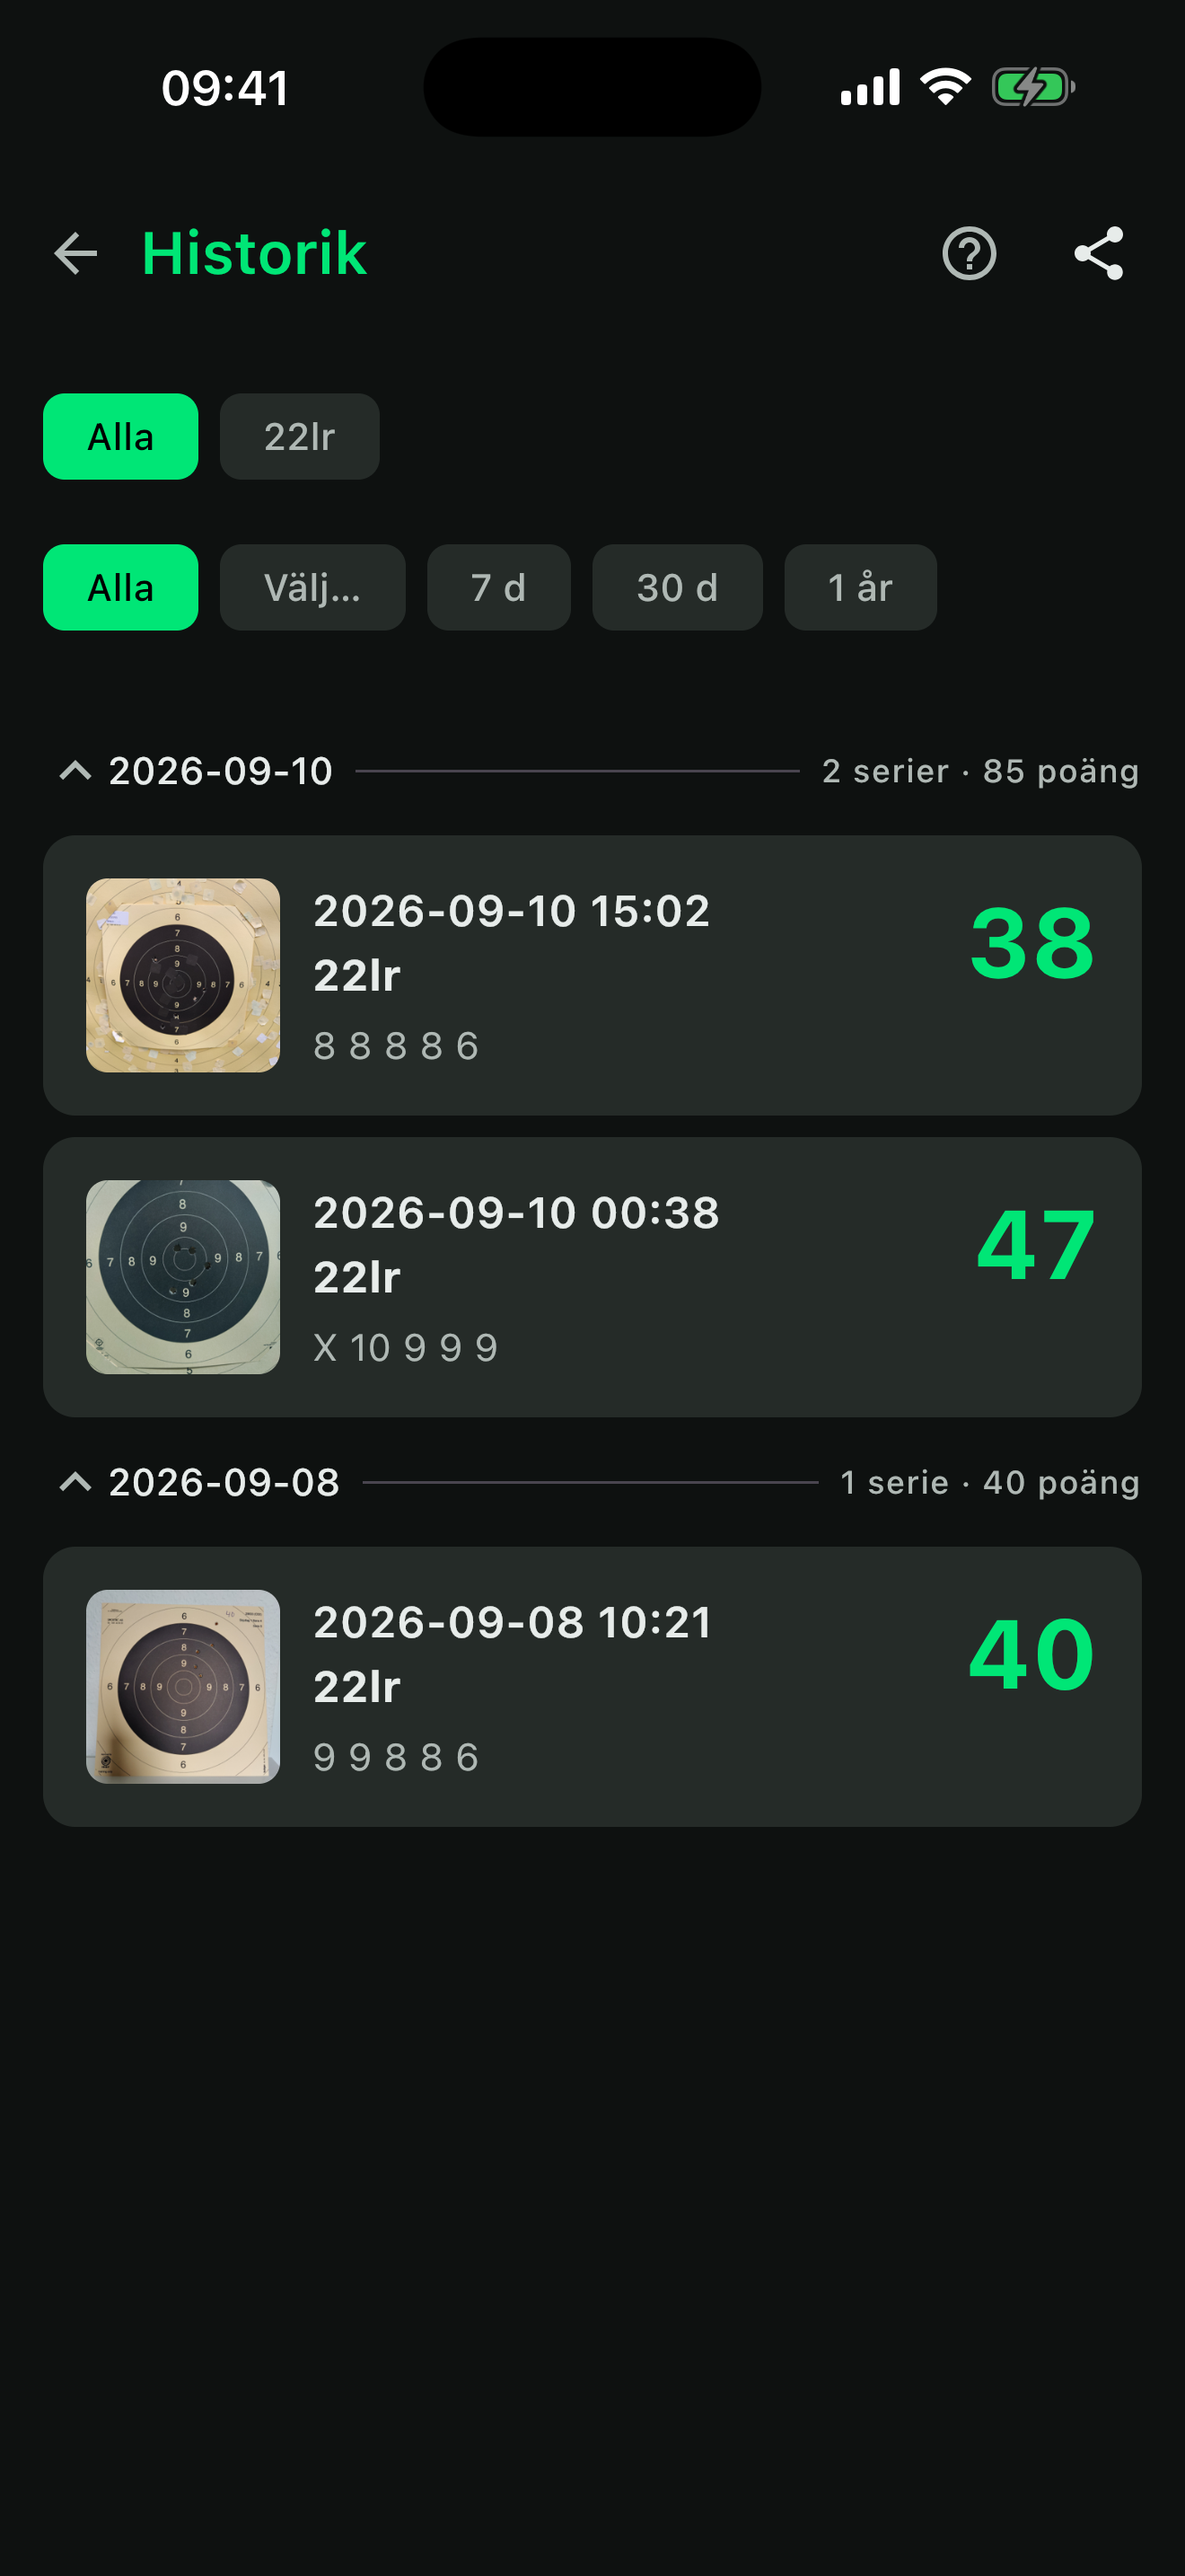
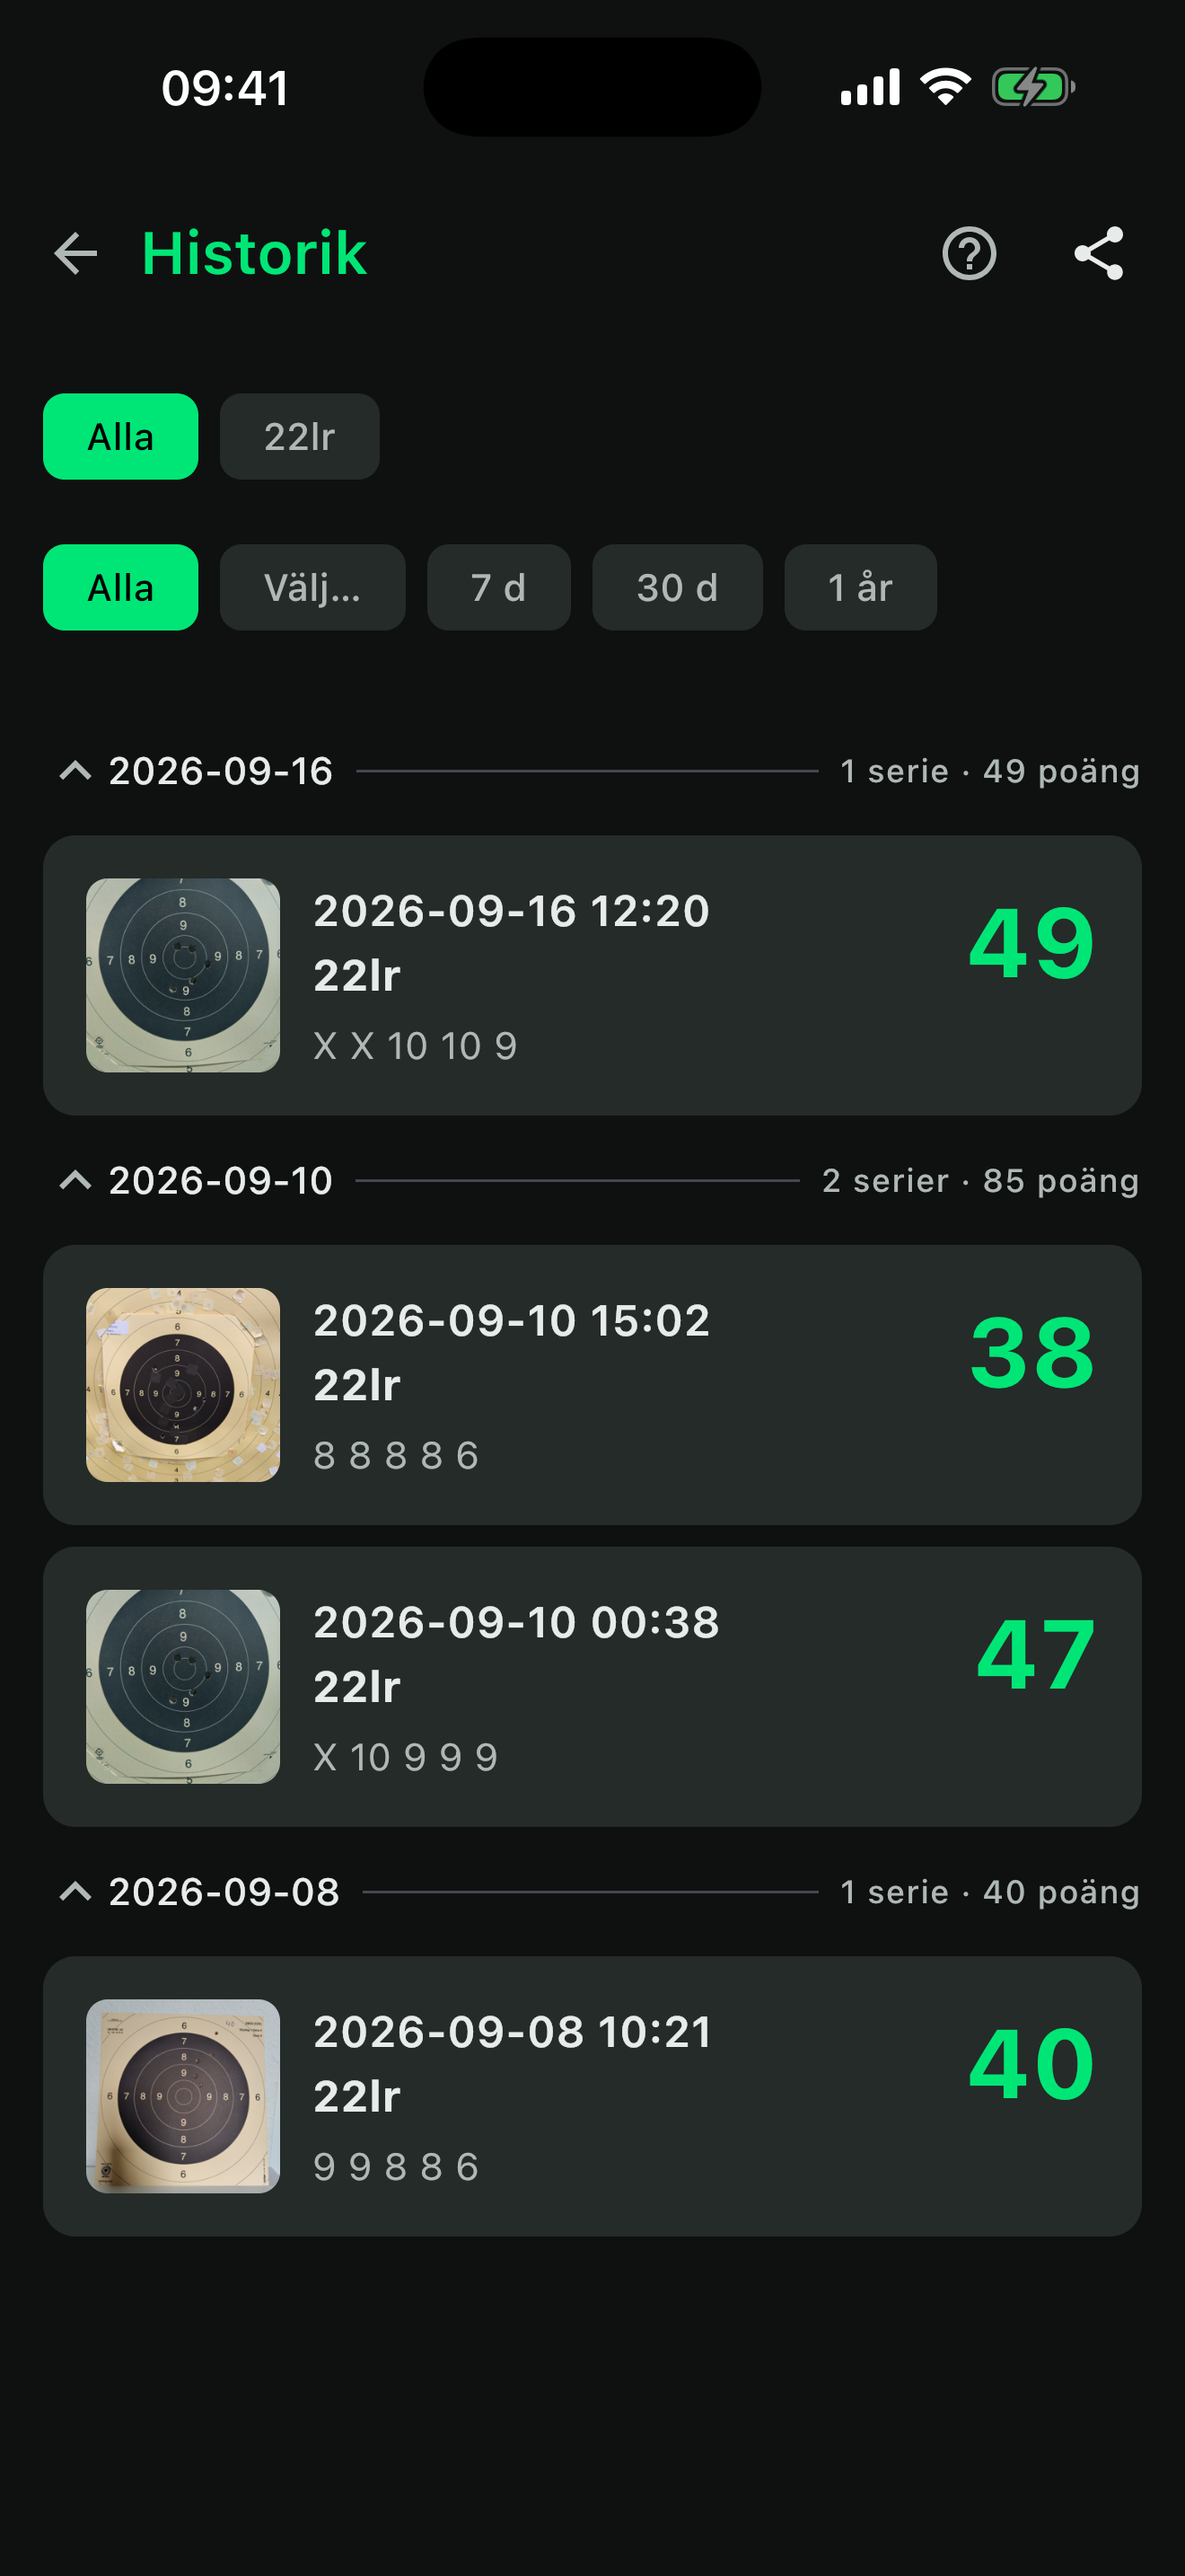
App Store: retake 04-historik.png with the new series
The shot listed only the pre-task-88 dev series. It now shows three day
groups, all expanded, with today's freshly scanned 49 p series on top --
which also demonstrates the day grouping better than the old two-day set.

Claude-Session: https://claude.ai/code/session_01T2fnEK7bqfhXzvSH96ng2L

diff --git a/PLAN.md b/PLAN.md
@@ -217,7 +217,7 @@ Calibers: `22lr, 32, 38, 357, 45, 44, 9mm, 10mm` plus `-` (none, default).
 | 95 | Historik day header: "1 serier" should read "1 serie" (seen on the phone 2026-09-16) | done 2026-09-16 — gate green, iOS links, phone-checked 2026-09-16 (two one-series days read "1 serie") |
 | 96 | Help text: the Radera item on the series detail screen still said the bin "tar bort hela serien från ditt konto", which stopped being true with task 90 — it now says the series leaves the app while the server keeps it, its holes and its photo until the account is deleted (user 2026-09-16) | done 2026-09-16 — gate 190 green, iOS links, phone-checked 2026-09-16 (help sheet on a series) |
 | 97 | Release 1.7.0 (10) (`/release` 2026-09-16) — notes written against **1.5.0**, the last public release (1.6.0 (9) reached the internal track but was never promoted), so they cover the new ring detection, typed scores, the 6/7 viewfinder labels, Historik day grouping, the Statistik tabs/filters, the icon and the five-hole cap; iOS marketing version + TestFlight notes bumped alongside; the four Play phone screenshots retaken on 34282ee3, and both tablet sets regenerated from them the way the repo has always built them (the phone shot pasted unscaled on an app-background canvas: 7" 1620x2880 at x=90, 10" 2160x3840 at 360,480) — no tablet and no emulator needed; the four App Store screenshots retaken the same day on the iPhone 17 Pro Max simulator (1320x2868, `idb ui tap` in points + `simctl io screenshot`, Debug build against the dev backend) and flattened to RGB, since App Store Connect rejects PNGs with an alpha channel | done 2026-09-16 — AAB built and signed (139 MB), commit 832b729, tag v1.7.0 pushed; the user ran both Play tasks (the classifier denies my uploads): build 10 is in track 'internal' and the four new phone screenshots are live on the sv-SE listing. The user ran `publishReleaseListing` again 2026-09-16, so both tablet sets (7" and 10") are live on the listing too. The App Store side went out the same day: iOS 1.7.0 is on TestFlight as **build 11** (`project.yml` said 10, but ASC had already consumed 10, so the beta lane bumped past it — project.yml now says 11), and `fastlane metadata` pushed the four screenshots + Swedish notes and attached build 11 to version 1.7.0. That push first died with `invalid byte sequence in US-ASCII`: `scripts/mac.sh` sets no locale, so Ruby came up US-ASCII and deliver choked on the Swedish text — hence the new `scripts/mac-metadata.sh`, which exports `LANG`/`LC_ALL` the way `mac-beta.sh` already did. Only the App Privacy questionnaire (ASC UI, no public API) now stands between this and `fastlane release`. Promotion to production is still a manual step in Play Console |
-| 98 | App Store `02-serie.png` showed the green 6/7 ring badly misplaced (user spotted it in the live store listing 2026-09-16) | done 2026-09-16 — **not a code bug**: `GeometryDto` is persisted per series (`series/SeriesDtos.kt:89`) and `SeriesDetailScreen:232` draws `series.geometry?.ring()` without ever recomputing, so a screenshot of a 2026-09-10 dev series still showed the pre-task-88 `refine67ToEdge` fit. Measured the old shot from the red centre outward: the ring sat ~106 px (≈20% of radius) inside the black edge on three of four axes, tracking a printed ring line between the 7 and 8 digits. Rescanned the same target on the simulator (Debug 1.7.0 = probe-disk fit) → 49 p (X X 10 10 9); the new ring measures **+2.7 px mean, 18 px worst (3.3% of a 537 px radius)** against the true 6/7 edge over 29 rays. `02-serie.png` replaced (flattened to RGB) and pushed to ASC with the new `scripts/mac-metadata.sh`; build 11 re-attached to 1.7.0. The other three shots were unaffected. Lesson: a store screenshot must come from a series scanned on the current build |
+| 98 | App Store `02-serie.png` showed the green 6/7 ring badly misplaced (user spotted it in the live store listing 2026-09-16) | done 2026-09-16 — **not a code bug**: `GeometryDto` is persisted per series (`series/SeriesDtos.kt:89`) and `SeriesDetailScreen:232` draws `series.geometry?.ring()` without ever recomputing, so a screenshot of a 2026-09-10 dev series still showed the pre-task-88 `refine67ToEdge` fit. Measured the old shot from the red centre outward: the ring sat ~106 px (≈20% of radius) inside the black edge on three of four axes, tracking a printed ring line between the 7 and 8 digits. Rescanned the same target on the simulator (Debug 1.7.0 = probe-disk fit) → 49 p (X X 10 10 9); the new ring measures **+2.7 px mean, 18 px worst (3.3% of a 537 px radius)** against the true 6/7 edge over 29 rays. `02-serie.png` replaced (flattened to RGB) and pushed to ASC with the new `scripts/mac-metadata.sh`; build 11 re-attached to 1.7.0. `04-historik.png` was retaken in the same round (user 2026-09-16: it still listed only the old series) — it now shows three day groups, all expanded, with the new 49 p series on top, which also advertises the day grouping better than the old two-day shot. `01-hem.png` and `03-statistik.png` were unaffected. Lesson: a store screenshot must come from a series scanned on the current build |
 | 9 | HTTPS for the backend (queued 2026-09-06 as "if the backend ever leaves the LAN") | done 2026-09-07 — `https://markera.duckdns.org` via the Mac mini's host Caddy (block appended over ssh, backup `Caddyfile.bak-20260907`); container bound to 127.0.0.1:8090; app default URL switched, cleartext config removed |
 
 ## API (server)
